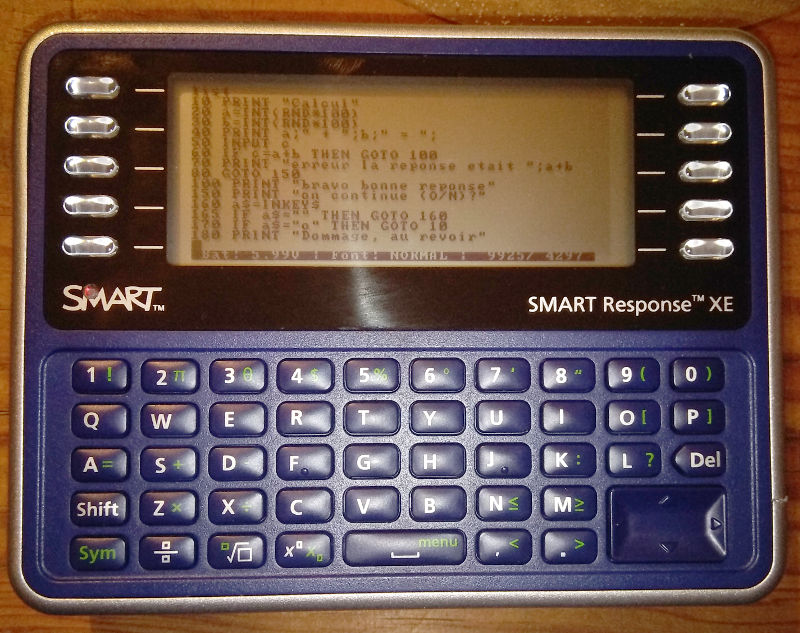
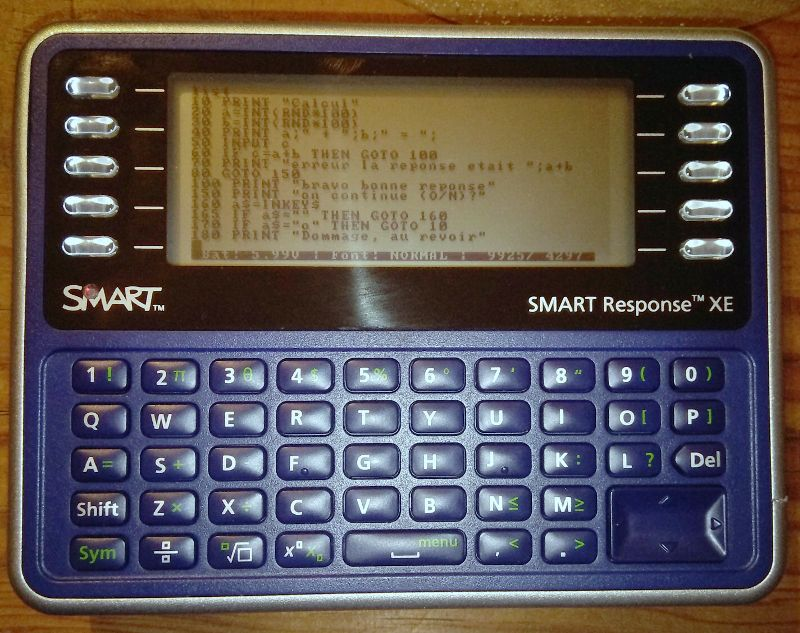
Creating new branch to test adding new directive to SMART BASIC
Creation of the test branch

SMART_Response_BASIC.ino, host.cpp, host.h: added support for an SD card
)currently just some declaration)

basic.cpp, basic.h: added TONE and NOTONE directive

photos: corrected colorimetry (pictures were too blue)

diff --git a/basic.cpp b/basic.cpp
@@ -47,7 +47,12 @@
       Function keys from F1 = 240 to F10 = 249 (F1 is top left and F10 is bottom right)
    added SLEEP
     SLEEP put terminal in low power mode, exit with power button
-
+   fdufnews 15/7/2020
+   added TONE
+    Set frequency generated on buzzer pin
+   added NOTONE
+    Stop frequency generated on buzzer pin
+    
 */
 
 // TODO
@@ -130,6 +135,12 @@ const char* const errorTable[] PROGMEM = {
 
 //   fdufnews 12/2019
 //   added ASC(string)
+//   added SLEEP
+//   fdufnews 7/2020
+//   added TONE(int)
+//   added NOTONE
+
+
 PROGMEM const TokenTableEntry tokenTable[] = {
   {0, 0}, {0, 0}, {0, 0}, {0, 0},
   {0, 0}, {0, 0}, {0, 0}, {0, 0},
@@ -147,7 +158,8 @@ PROGMEM const TokenTableEntry tokenTable[] = {
   {"RIGHT$", 2 | TKN_ARG1_TYPE_STR | TKN_RET_TYPE_STR}, {"MID$", 3 | TKN_ARG1_TYPE_STR | TKN_RET_TYPE_STR}, {"CLS", TKN_FMT_POST}, {"PAUSE", TKN_FMT_POST},
   {"POSITION", TKN_FMT_POST},  {"PIN", TKN_FMT_POST}, {"PINMODE", TKN_FMT_POST}, {"INKEY$", 0},
   {"SAVE", TKN_FMT_POST}, {"LOAD", TKN_FMT_POST}, {"PINREAD", 1}, {"ANALOGRD", 1},
-  {"DIR", TKN_FMT_POST}, {"DELETE", TKN_FMT_POST}, {"ASC",  1 | TKN_ARG1_TYPE_STR}, {"SLEEP", TKN_FMT_POST}
+  {"DIR", TKN_FMT_POST}, {"DELETE", TKN_FMT_POST}, {"ASC",  1 | TKN_ARG1_TYPE_STR}, {"SLEEP", TKN_FMT_POST},
+  {"TONE", 1},{"NOTONE", TKN_FMT_POST}
 };
 
 
@@ -1461,6 +1473,17 @@ int parse_PAUSE() {
   return 0;
 }
 
+// fdufnews 15/7/2020
+int parse_TONE(){
+  getNextToken();  // eat tone
+  int val = expectNumber();
+  if (val) return val;  // error
+  if (executeMode) {
+    host_tone((uint16_t)stackPopNum());
+  }
+  return 0; 
+}
+
 int parse_LIST() {
   getNextToken();
   uint16_t first = 0, last = 0;
@@ -1792,6 +1815,10 @@ int parseSimpleCmd() {
         host_goToSleep();
         host_showBuffer();
         break;
+      // fdufnews 15/7/2020
+      case TOKEN_NOTONE:
+        host_notone();
+        break;
       case TOKEN_DIR:
 #if EXTERNAL_EEPROM
         host_directoryExtEEPROM();
@@ -1846,6 +1873,7 @@ int parseStmts()
       case TOKEN_GOSUB: ret = parse_GOSUB(); break;
       case TOKEN_DIM: ret = parse_DIM(); break;
       case TOKEN_PAUSE: ret = parse_PAUSE(); break;
+      case TOKEN_TONE: ret = parse_TONE();break;
 
       case TOKEN_LOAD:
       case TOKEN_SAVE:
@@ -1866,6 +1894,8 @@ int parseStmts()
       case TOKEN_CLS:
       case TOKEN_DIR:
       case TOKEN_SLEEP:
+      // fdufnews 15/7/2020
+      case TOKEN_NOTONE:
         ret = parseSimpleCmd();
         break;
 

diff --git a/host.h b/host.h
@@ -17,11 +17,26 @@
 #define KEY_ENTER 0x0D
 #define KEY_ESC 0x1B
 
+// Put 1 if you use an external EEPROM on I2C bus
+// NOTE
+// ONLY ONE OF EXTERNAL_EEPROM OR  SD_CARD CAN BE ACTIVE AT THE SAME TIME ON A CONFIGURATION
 #define EXTERNAL_EEPROM         0
 #define EXTERNAL_EEPROM_ADDR    0x50    // I2C address (7 bits)
 #define EXTERNAL_EEPROM_SIZE    32768   // only <=32k tested (64k might work?)
 
 #define MAGIC_AUTORUN_NUMBER    0xFC
+
+// fdufnews 28/07/2020
+// Put 1 if using an SD card on SPI
+// NOTE
+// ONLY ONE OF EXTERNAL_EEPROM OR  SD_CARD CAN BE ACTIVE AT THE SAME TIME ON A CONFIGURATION
+#define SD_CARD 1
+#define SD_CARD_CS FLASH_CS
+
+#if EXTERNAL_EEPROM && SD_CARD
+#error "EXTERNAL_EEPROM and SD_CARD cannot be active at the same time"
+#endif
+
 
 void host_init(int buzzer_Pin, int led_Pin);
 void host_sleep(long ms);
@@ -31,6 +46,8 @@ int host_analogRead(int pin);
 void host_pinMode(int pin, int mode);
 void host_click();
 void host_startupTone();
+void host_notone();
+void host_tone(int note);
 unsigned int host_BASICFreeMem(void);
 unsigned int host_CFreeMem(void);
 void host_setFont(unsigned char fontNum);
@@ -66,4 +83,19 @@ void host_directoryExtEEPROM();
 bool host_saveExtEEPROM(char *fileName);
 bool host_loadExtEEPROM(char *fileName);
 bool host_removeExtEEPROM(char *fileName);
+#endif
+
+#if SD_CARD
+#include <SPI.h>
+#include <SD.h>
+void host_directorySD(void);
+void host_saveSD(char *filename); 
+void host_loadSD(char *filename);
+void host_removeSD(char *filename);
+/* 
+ *  void host_openSD();
+ *  void host_readSD();
+ *  void host_writeSD();
+ */
+ 
 #endif

diff --git a/host.cpp b/host.cpp
@@ -151,6 +151,22 @@ void host_startupTone() {
   }
 }
 
+// host_notone
+//  halt tone generated on buzpin
+//
+void host_notone(){
+  if (!buzPin) return;
+    noTone(buzPin);
+}
+
+// host_tone
+//  generates a tone on buzpin
+//
+void host_tone(int note){
+  if (!buzPin) return;
+    tone(buzPin, note);
+}
+
 //    host_BASICFreeMem
 // returns free BASIC memory
 //
@@ -463,6 +479,8 @@ void host_setConf(void) {
     }
   }
 }
+
+
 char *host_readLine() {
   inputMode = 1;
 
@@ -693,4 +711,31 @@ bool host_saveExtEEPROM(char *fileName) {
   return true;
 }
 
+#endif
+
+#if SD_CARD
+#include <SPI.h>
+#include <SD.h>
+void host_directorySD(void){
+  
+}
+
+void host_saveSD(char *filename){
+  
+}
+
+void host_loadSD(char *filename){
+  
+}
+
+void host_removeSD(char *filename){
+  
+}
+
+/* 
+ *  void host_openSD();
+ *  void host_readSD();
+ *  void host_writeSD();
+ */
+ 
 #endif

diff --git a/basic.h b/basic.h
@@ -72,9 +72,12 @@
 //   added SLEEP
 #define TOKEN_ASC               66
 #define TOKEN_SLEEP             67
+//   fdufnews 7/2020
+#define TOKEN_TONE              68
+#define TOKEN_NOTONE            69
 
 #define FIRST_IDENT_TOKEN 23
-#define LAST_IDENT_TOKEN 67
+#define LAST_IDENT_TOKEN 69
 
 #define FIRST_NON_ALPHA_TOKEN    8
 #define LAST_NON_ALPHA_TOKEN    22
